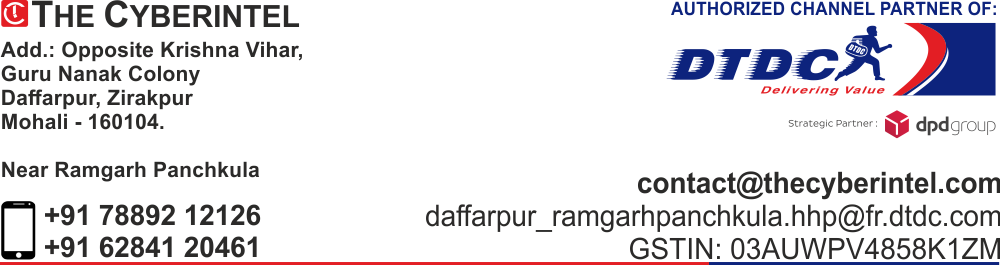
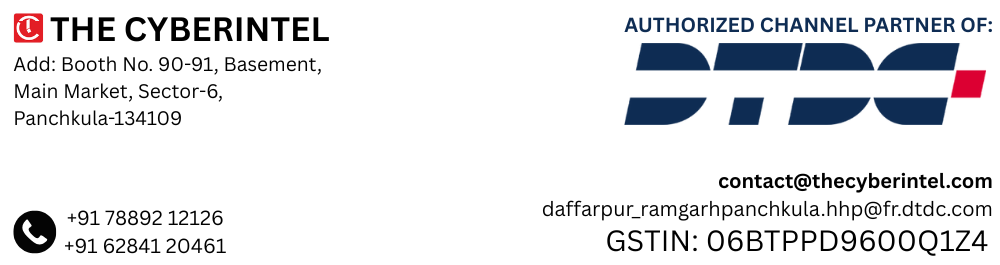
updated gst and account

diff --git a/src/components/InvoicePrint/FrontPage.jsx b/src/components/InvoicePrint/FrontPage.jsx
@@ -49,7 +49,7 @@ const FrontPage = (props) => {
         flexDirection: "column",
       }}
     >
-      <img src={letterHead} style={{ width: "21cm", display: "block" }} />
+      <img src={letterHead} style={{ width: "21cm", display: "block", borderBottom: "2px solid #0e2c53" }} />
       <table
         border={0}
         cellPadding={0}
@@ -138,9 +138,9 @@ const FrontPage = (props) => {
             <td colSpan={2} className="bb-1 bl-0 bt-0 br-0 px-4">
               Beneficiary Name: The Cyberintel <br />
               Bank Name: HDFC Bank Ltd. <br />
-              A/c No.: 50200057918781 <br />
+              A/c No.: 50200103165773 <br />
               Type: Current Account <br />
-              IFSC: HDFC0000108
+              IFSC: HDFC0000601
             </td>
           </tr>
         </tbody>
